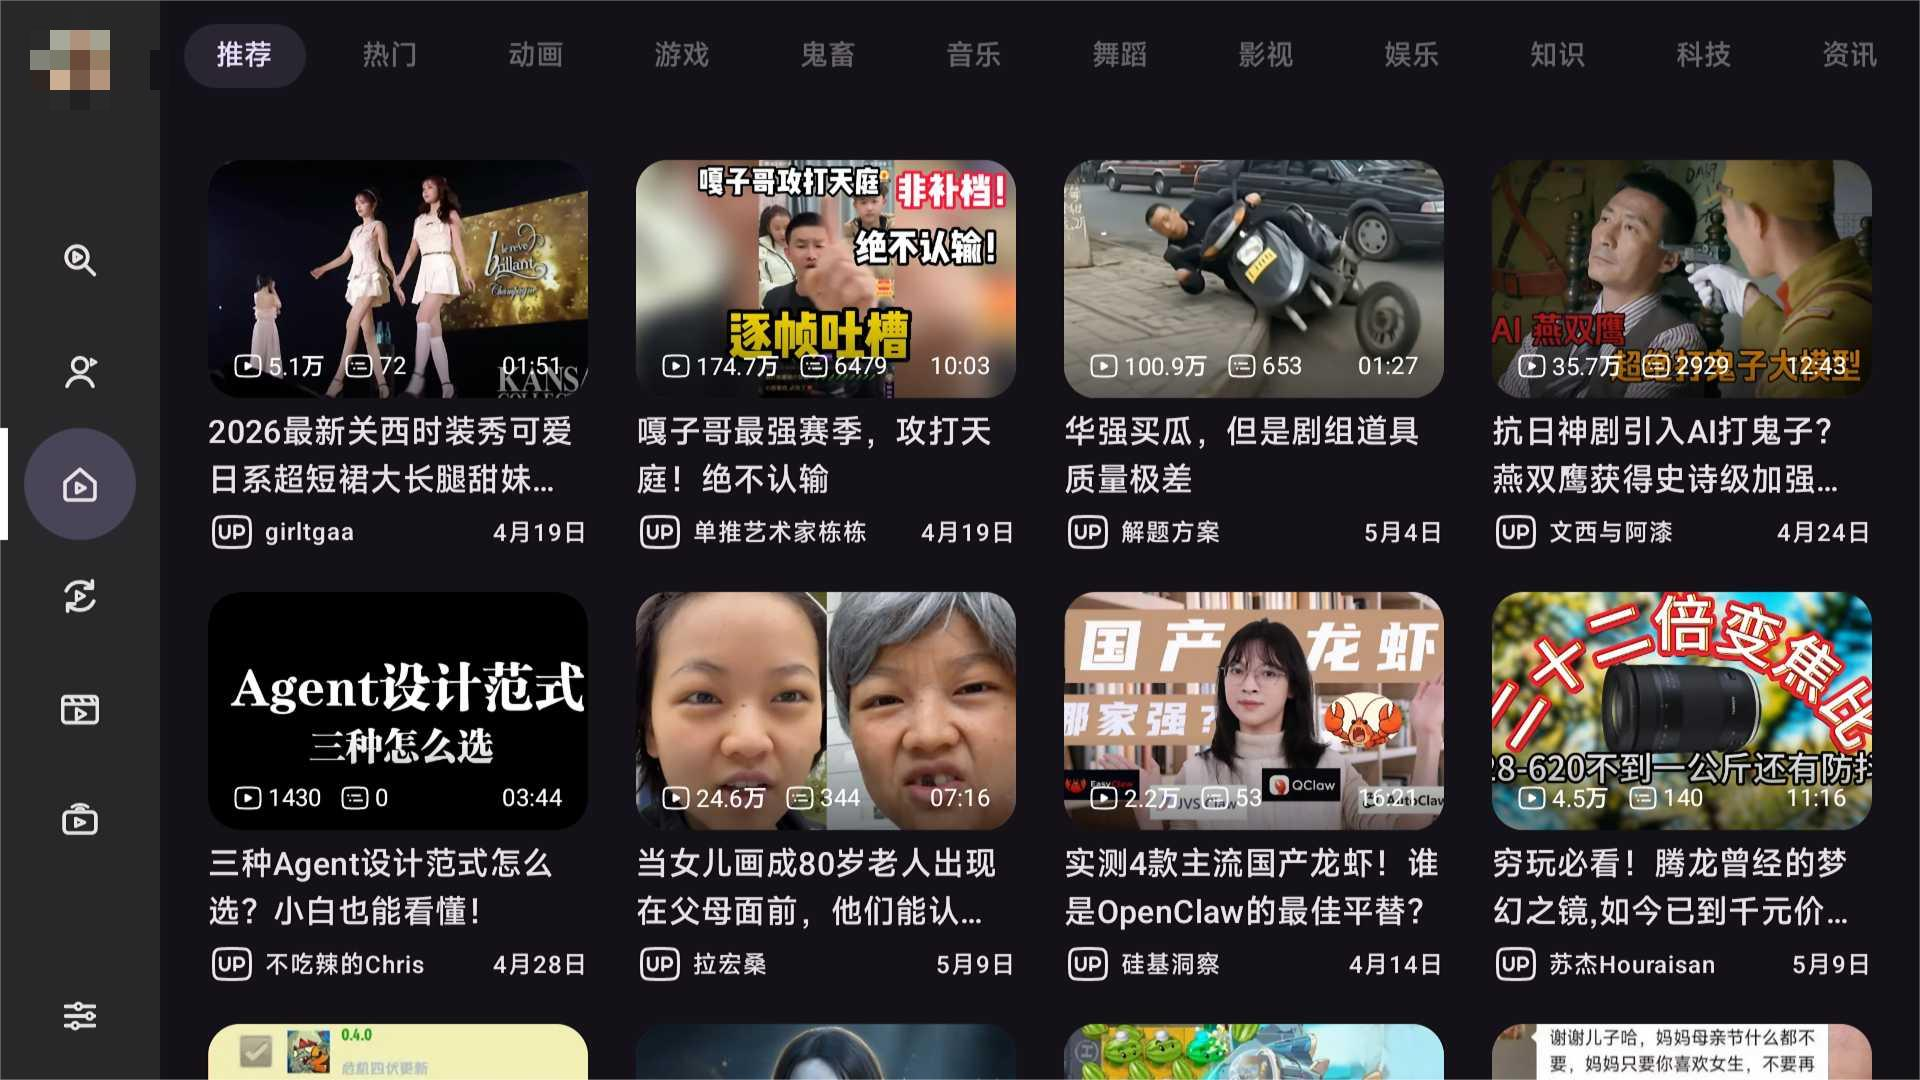
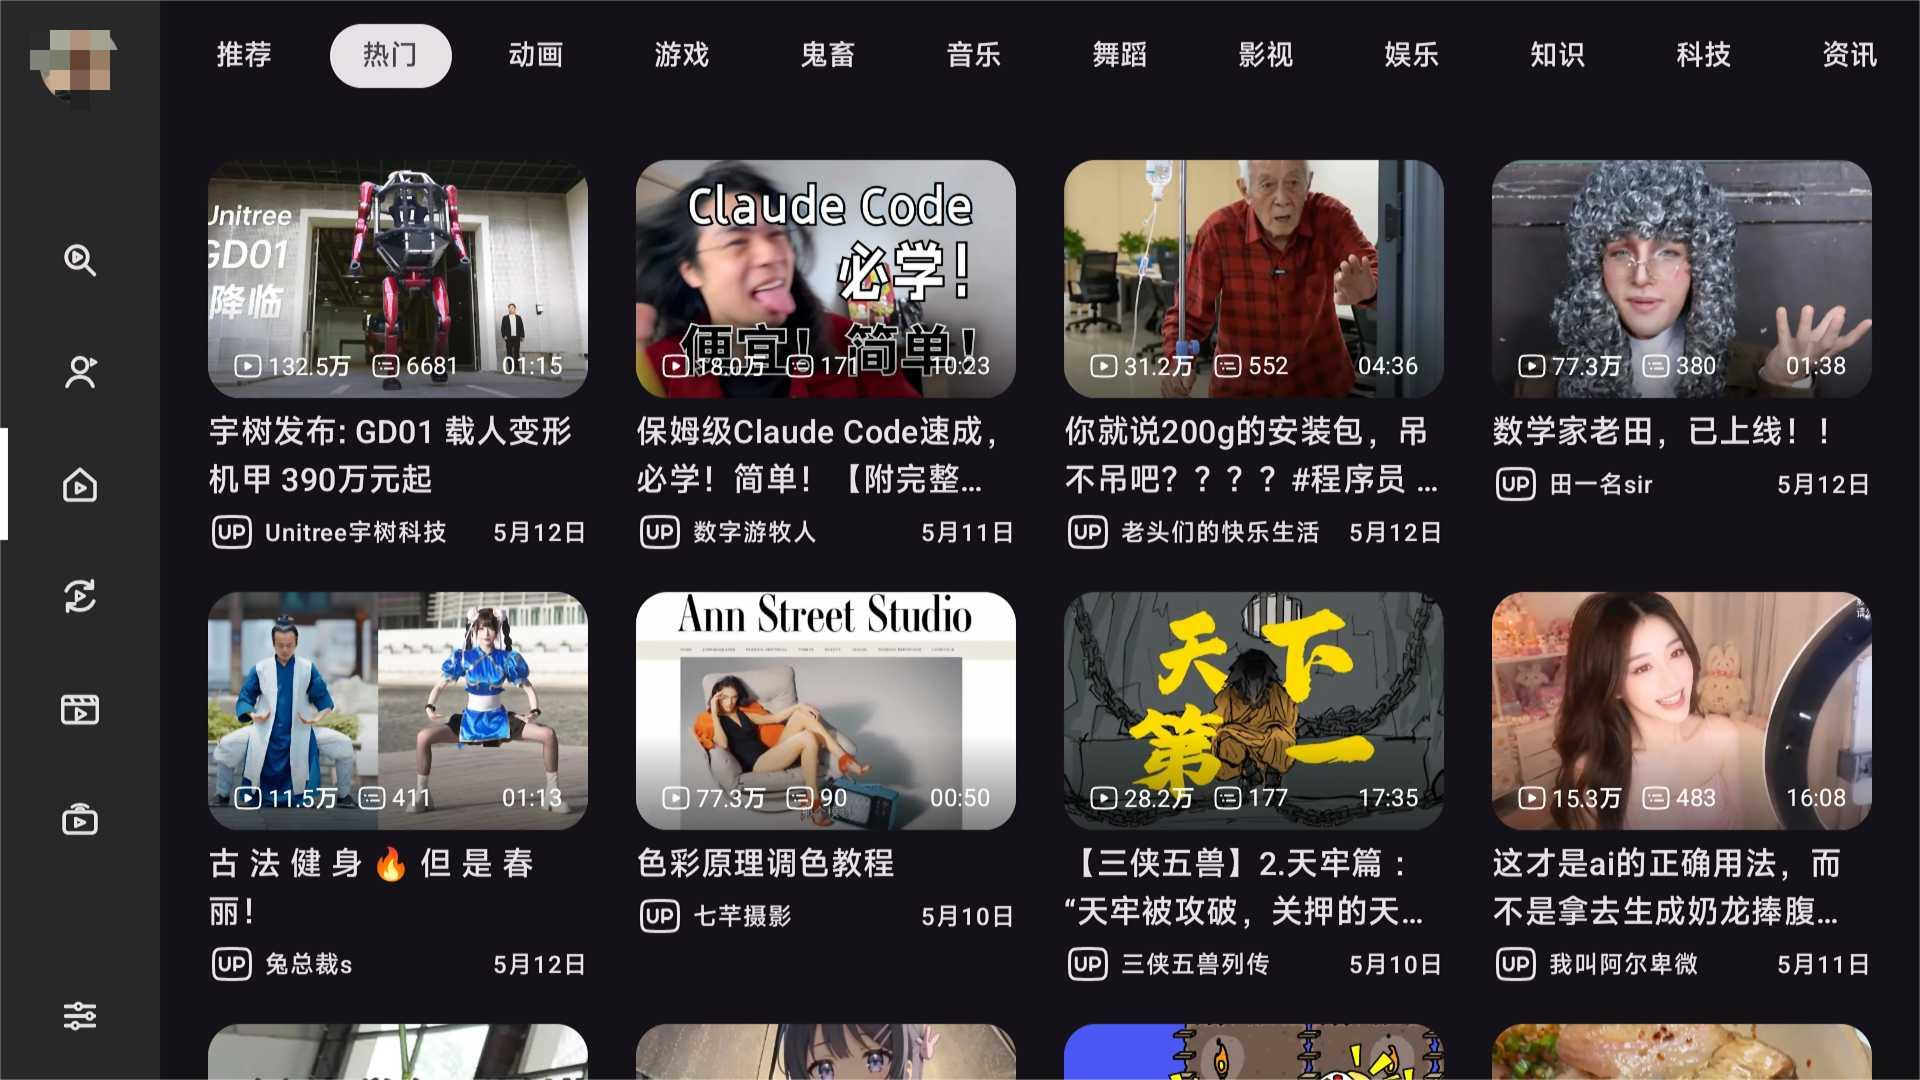
feat: prepare NeoBV release

diff --git a/app/src/main/kotlin/dev/aaa1115910/bv/screen/settings/content/UISetting.kt b/app/src/main/kotlin/dev/aaa1115910/bv/screen/settings/content/UISetting.kt
@@ -69,6 +69,7 @@ fun UISetting(
     var showPersistentSeek by remember { mutableStateOf(Prefs.showPersistentSeek) }
 
     val density by Prefs.densityFlow.collectAsState(context.resources.displayMetrics.widthPixels / 960f)
+    val densityDialogState = remember { UIDensityDialogState(density) }
     var selectedLeftNavItem by remember { mutableStateOf(Prefs.homeLeftNaviItem) }
     var selectedFirstHomeTopNavItem by remember { mutableStateOf(Prefs.firstHomeTopNavItem) }
     var selectedFirstPersonalTopNavItem by remember { mutableStateOf(Prefs.firstPersonalTopNavItem) }
@@ -136,7 +137,10 @@ fun UISetting(
                     SettingListItem(
                         title = stringResource(R.string.settings_ui_density_title),
                         supportText = stringResource(R.string.settings_ui_density_text),
-                        onClick = { showDensityDialog = true }
+                        onClick = {
+                            densityDialogState.open(density)
+                            showDensityDialog = true
+                        }
                     )
                 }
             }
@@ -146,7 +150,7 @@ fun UISetting(
     UIDensityDialog(
         show = showDensityDialog,
         onHideDialog = { showDensityDialog = false },
-        density = density,
+        densityState = densityDialogState,
         onDensityChange = { Prefs.density = it }
     )
 
@@ -194,7 +198,7 @@ internal class UIDensityDialogState(initialDensity: Float) {
     var displayDensity by mutableFloatStateOf(sanitizeDensity(initialDensity))
         private set
 
-    fun reset(density: Float) {
+    fun open(density: Float) {
         displayDensity = sanitizeDensity(density)
     }
 
@@ -220,18 +224,16 @@ private fun UIDensityDialog(
     modifier: Modifier = Modifier,
     show: Boolean,
     onHideDialog: () -> Unit,
-    density: Float,
+    densityState: UIDensityDialogState,
     onDensityChange: (Float) -> Unit
 ) {
     val context = LocalContext.current
     val scope = rememberCoroutineScope()
     val focusRequester = remember { FocusRequester() }
     val defaultDensity by remember { mutableFloatStateOf(context.resources.displayMetrics.widthPixels / 960f) }
-    val densityState = remember { UIDensityDialogState(density) }
 
     LaunchedEffect(show) {
         if (show) {
-            densityState.reset(density)
             focusRequester.requestFocus(scope)
         }
     }
@@ -284,12 +286,13 @@ private fun UIDensityDialog(
 fun UIDensityDialogPreview() {
     val show by remember { mutableStateOf(true) }
     var density by remember { mutableFloatStateOf(1.0f) }
+    val densityState = remember { UIDensityDialogState(density) }
 
     BVTheme {
         UIDensityDialog(
             show = show,
             onHideDialog = {},
-            density = density,
+            densityState = densityState,
             onDensityChange = { density = it }
         )
     }

diff --git a/app/src/test/kotlin/dev/aaa1115910/bv/screen/settings/content/UIDensityDialogStateTest.kt b/app/src/test/kotlin/dev/aaa1115910/bv/screen/settings/content/UIDensityDialogStateTest.kt
@@ -27,8 +27,18 @@ class UIDensityDialogStateTest {
         val state = UIDensityDialogState(initialDensity = 1.0f)
         state.step(direction = 1)
 
-        state.reset(2.3f)
+        state.open(2.3f)
 
         assertEquals(2.3f, state.displayDensity)
+    }
+
+    @Test
+    fun `density state steps from visible value after dialog opens`() {
+        val state = UIDensityDialogState(initialDensity = 1.0f)
+
+        state.open(2.0f)
+
+        assertEquals(1.9f, state.step(direction = -1))
+        assertEquals(1.8f, state.step(direction = -1))
     }
 }
